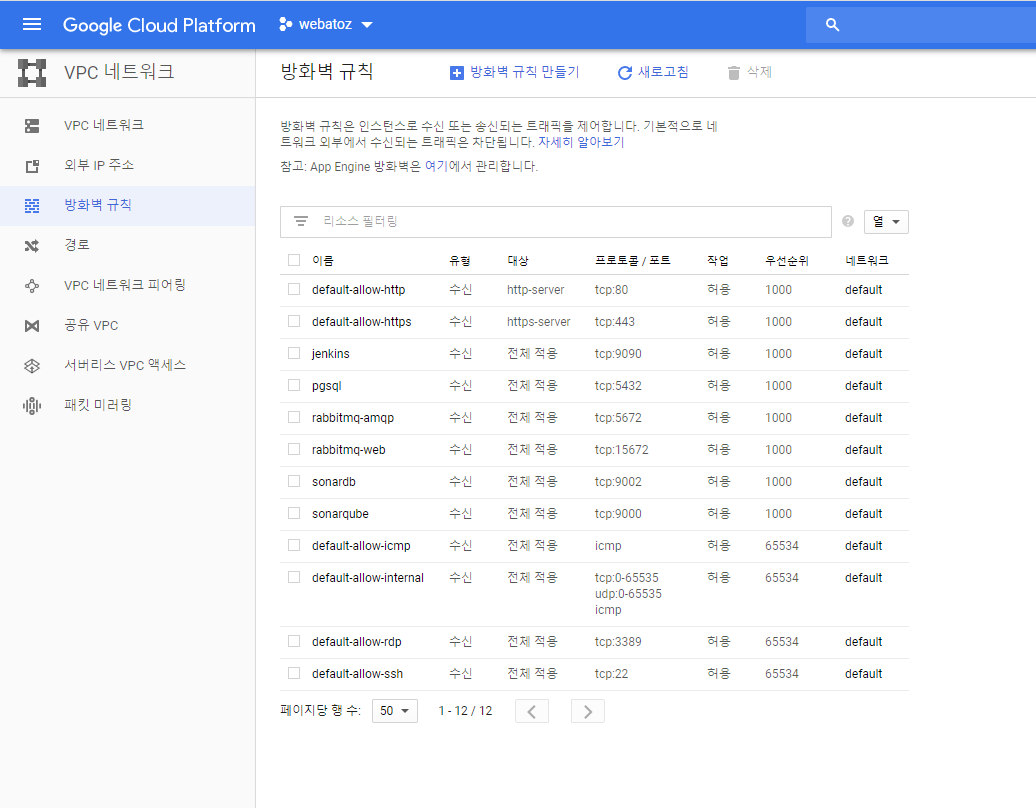
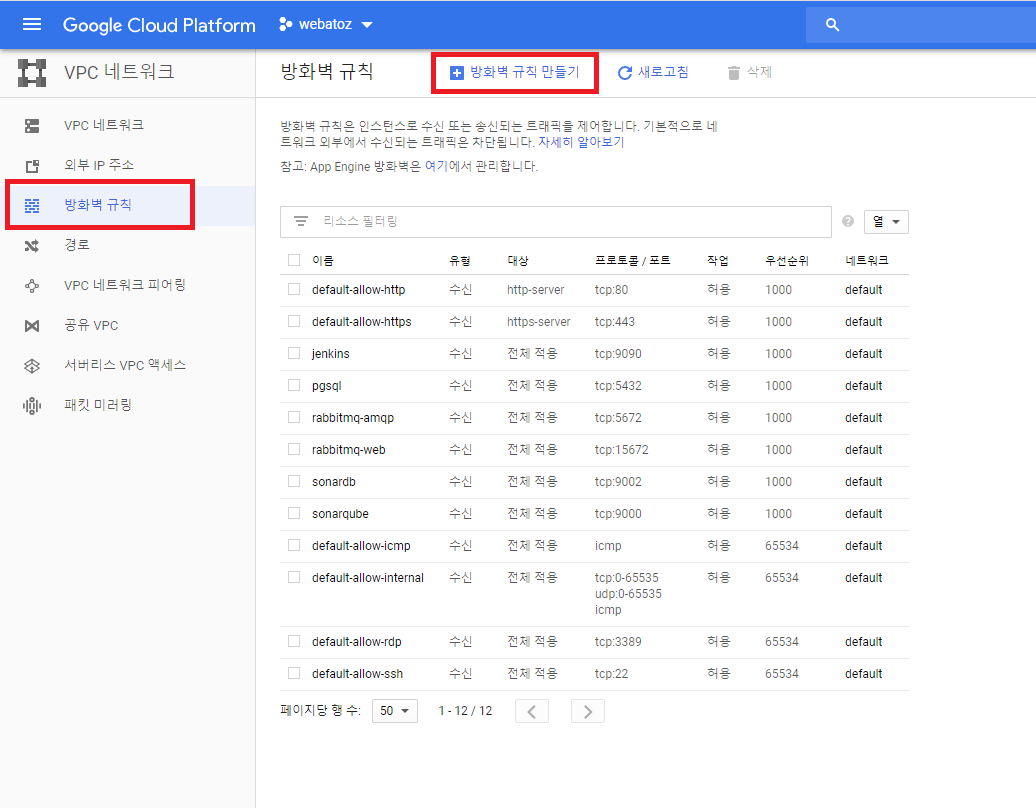
add gcp post

Changed region(s): [[0.0, 0.2166, 0.1853, 0.3094], [0.4015, 0.0619, 0.5869, 0.1238]]

diff --git a/_posts/infra/gcp/2020-01-15-gcp-firewall.md b/_posts/infra/gcp/2020-01-15-gcp-firewall.md
@@ -5,4 +5,22 @@ categories: infra
 tags: gcp infra firewall
 ---
 
-##
+## 방화벽 설정
+
+메뉴 - Compute Engine - VM 인스턴스 - 인스턴스 메뉴 - 네트워크 세부정보 보기 ![firewall_start](/assets/img/post/gcp/firewall_start.PNG)
+
+메뉴 - 방화벽 규칙 - 방화벽 규칙 만들기 선택 ![firewall_1](/assets/img/post/gcp/firewall_1.PNG)
+
+해당 정보 입력
+
+"대상" 의 경우는 모든 사람이 접근을 허용 하고 싶을땐 **네트워크의 모든 인스턴스** 를 선택하고 "소스 IP 범위" 는 **0.0.0.0/0** 을 한다.
+
+특정 IP 대역만 접근 하도록 설정도 가능하다. ![firewall_2](/assets/img/post/gcp/firewall_2.PNG)
+
+만들기를 누르고 조금 기다리면 방화벽이 설정된 것을 확인 할 수 있다. ![firewall_3](/assets/img/post/gcp/firewall_3.PNG)
+
+### 확인
+
+설정한 해당 포트로 어플리케이션을 실행 시킨 후 접속이 되는지 확인한다.
+
+어플리케이션 실행 후 netstat -nat 명령어로도 확인 할 수 있다.
